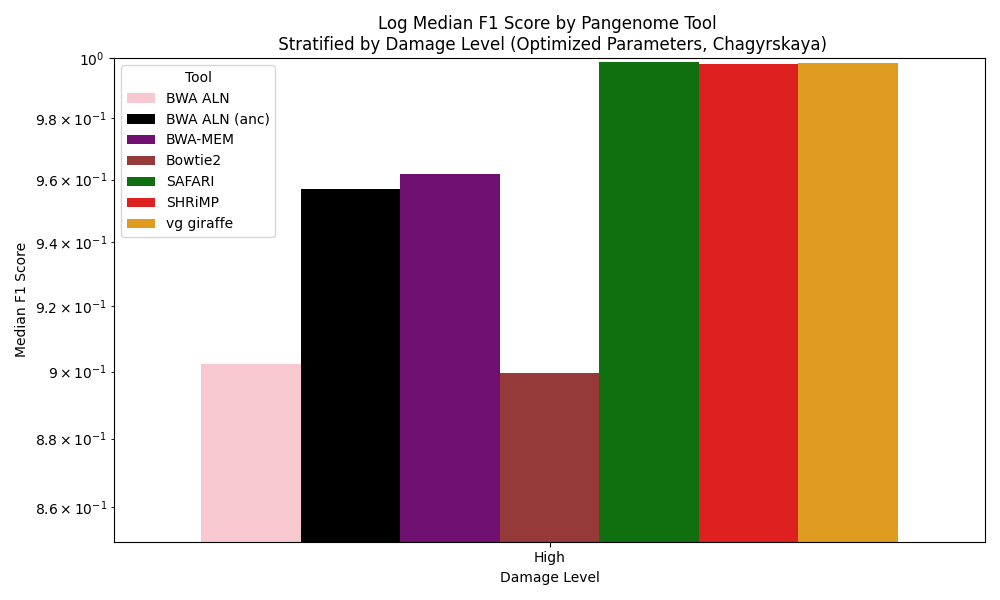
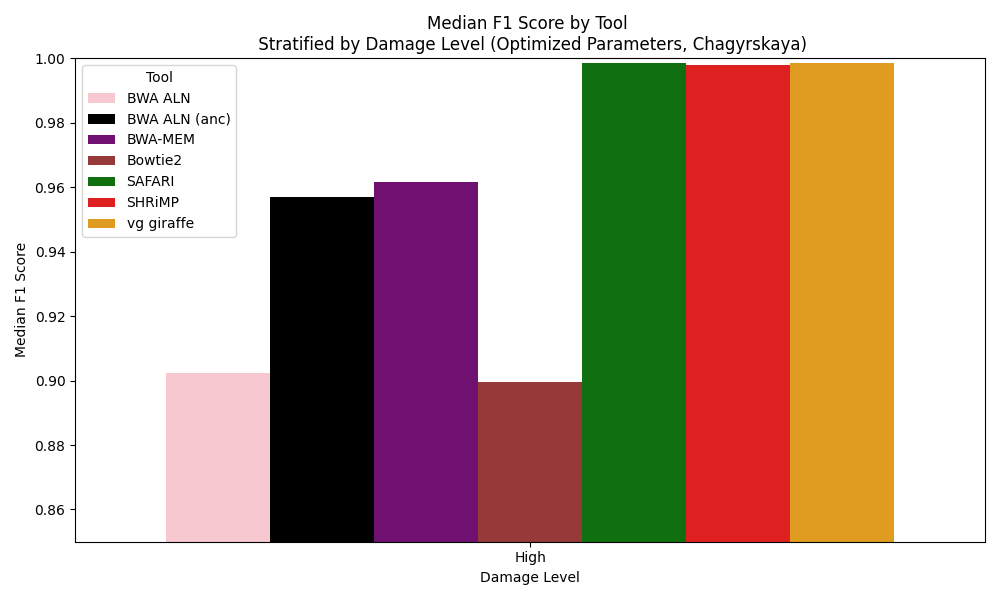
Update

diff --git a/linear_experiment/human_mito/stat_results/plot_F1_optimized_all.py b/linear_experiment/human_mito/stat_results/plot_F1_optimized_all.py
@@ -42,7 +42,7 @@ def main():
     # Create a barplot
     plt.figure(figsize=(10, 6))
     sns.barplot(data=median_f1_scores, x='damage_level', y='f1', hue='tool', palette=corrected_palette)
-    plt.title('Median F1 Score by Pangenome Tool \n Stratified by Damage Level (Optimized Parameters, ' + sys.argv[3] + ")")
+    plt.title('Median F1 Score by Tool \n Stratified by Damage Level (Optimized Parameters, ' + sys.argv[3] + ")")
     plt.xlabel('Damage Level')
     plt.ylabel('Median F1 Score')
     plt.legend(title='Tool')
